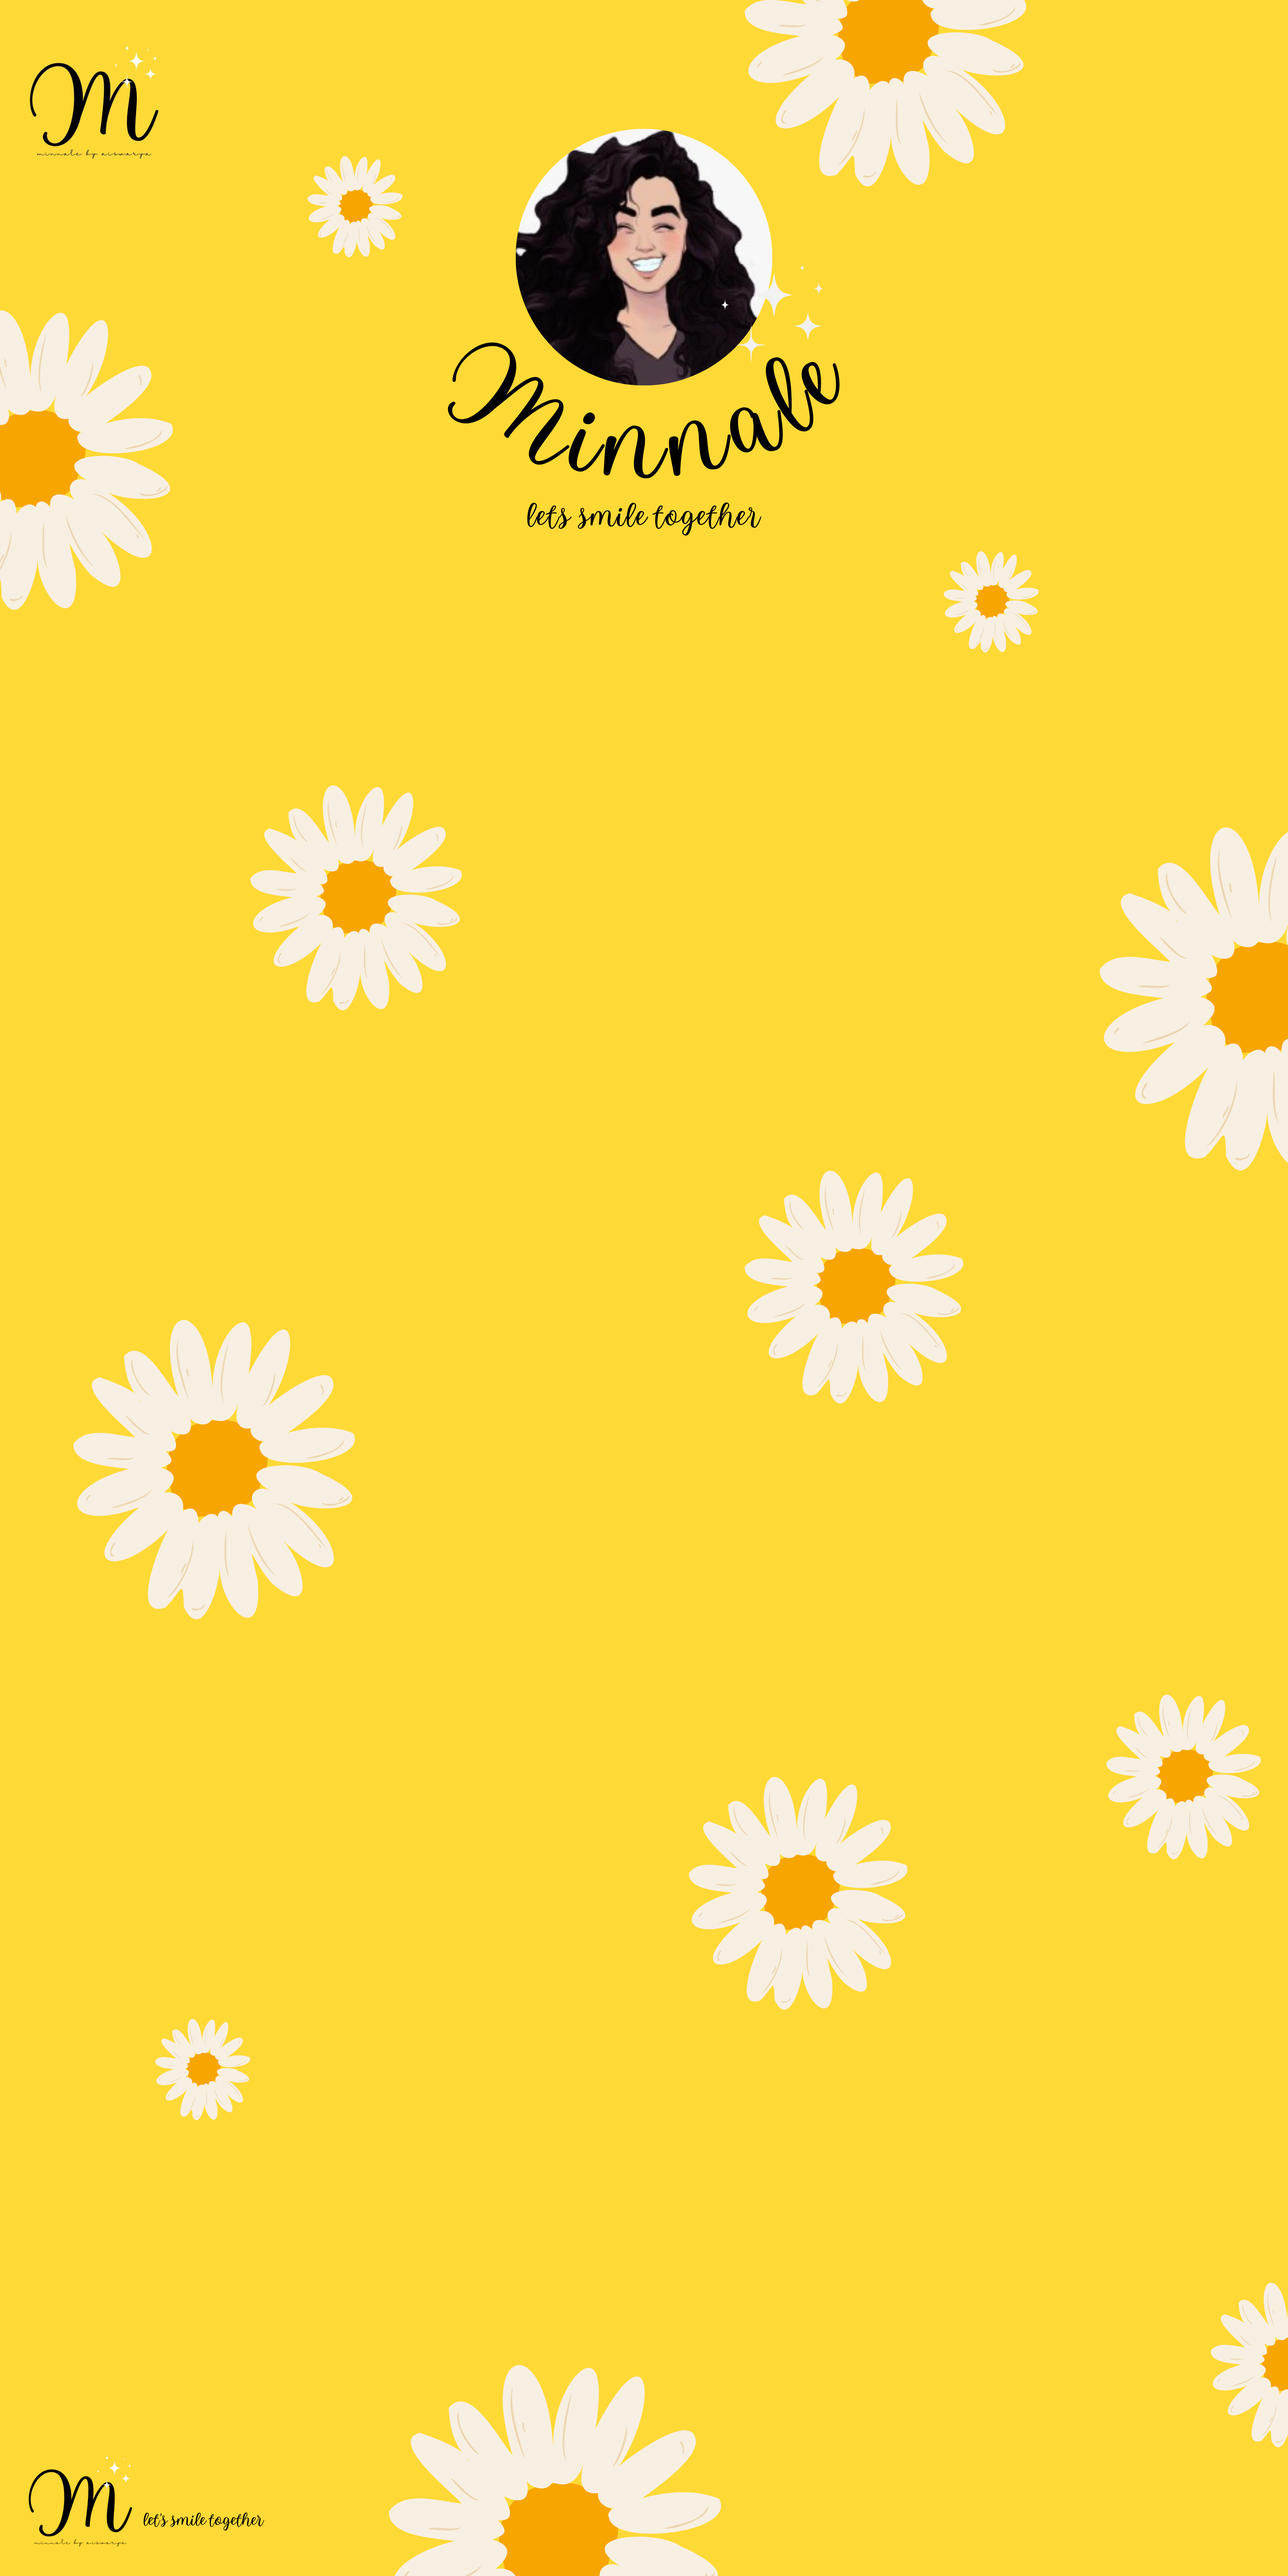
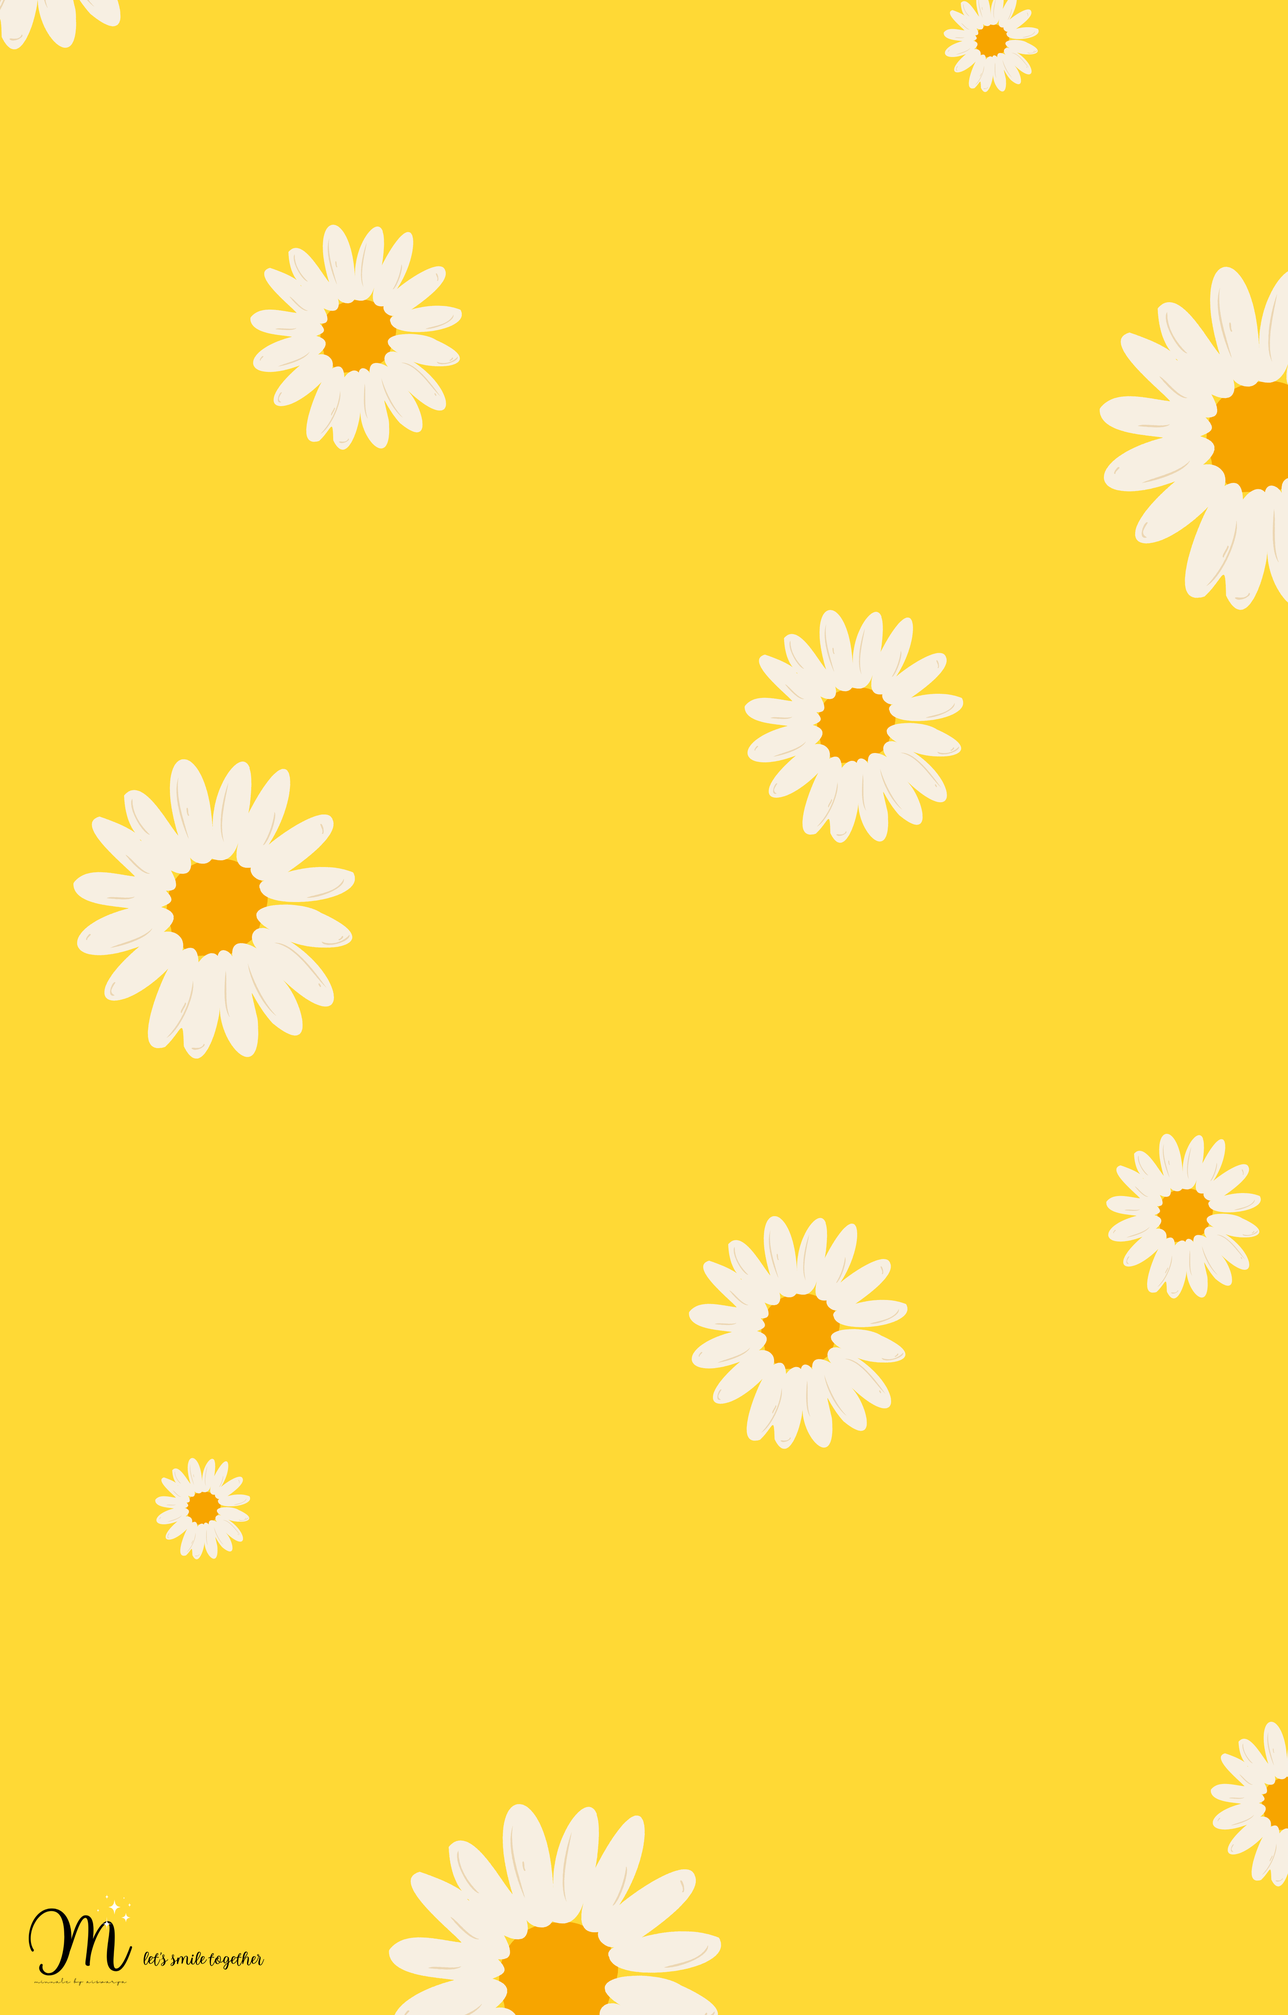
updates

diff --git a/src/Components/About/About.jsx b/src/Components/About/About.jsx
@@ -1,7 +1,7 @@
 import React from 'react'
 import './about.css'
 const About = () => {
-    const content = "Lorem ipsum dolor sit amet consectetur adipisicing elit. Maxime mollitia, molestiae quas vel sint commodi repudiandae consequuntur voluptatum laborum numquam blanditiis harum quisquam eius sed odit fugiat iusto fuga praesentium optio, eaque rerum! Provident similique accusantium nemo autem. Veritatis obcaecati tenetur iure eius earum ut molestias architecto voluptate aliquam nihil, eveniet aliquid culpa officia aut! Impedit sit sunt quaerat, odit, tenetur error, harum nesciunt ipsum debitis quas aliquid. Reprehenderit, quia. Quo neque error repudiandae fuga? Ipsa laudantium molestias eos sapiente officiis modi at sunt excepturi expedita sint? Sed quibusdam recusandae alias error harum maxime adipisci amet laborum. Perspiciatis minima nesciunt dolorem! Officiis iure rerum voluptates a cumque velit quibusdam sed amet tempora."
+    const content = " Minnale is business of Handmade Paper Craft products.Handmade paper craft can be a successful business, especially if you are able to offer unique and high-quality products that meet the needs and preferences of your target market. Some potential business ideas in the handmade paper craft industry include: Selling handmade paper products: You can create and sell a wide range of handmade paper products, such as greeting cards, invitations, gift boxes, and scrapbooking supplies.Offering paper craft workshops: You can offer classes or workshops teaching people how to make various handmade paper craft projects.This could be a good option if you have expertise in a particular technique, such as origami or quilling.Providing custom paper craft services: You can offer custom paper craft services, such as creating personalized invitations or party decorations for events.To start a handmade paper craft business, you will need to develop a business plan and identify your target market.You should also consider the costs associated with starting and running a business, including materials and equipment, marketing and advertising expenses, and any necessary licenses or permits.It can also be helpful to establish an online presence, such as a website or social media accounts, to showcase your products and services and reach a wider audience.Networking with other businesses and participating in craft fairs and events can also be effective ways to promote your business and attract customers. "
     return (
         <div className='flex flex-col about-container pb-4' id='About'>
             <div className='about'>About Minnale</div>

diff --git a/src/Components/Navbar/Navbar.jsx b/src/Components/Navbar/Navbar.jsx
@@ -3,9 +3,11 @@ import './navbar.css'
 const Navbar = () => {
     const navbar = ["Home", "About", "Products"]
     const contacts = [{ "name": "Instagram", "link": "https://www.instagram.com/_minnale_/", "asset": "instagram.svg" },
+    { "name": "Facebook", "link": "https://www.facebook.com/MINNALEHANDMADES/", "asset": "facebook.svg" },
     { "name": "Youtube", "link": "https://www.youtube.com/channel/UCF9Ts2woU2Kpiw7kTeldbmQ", "asset": "youtube.svg" },
-    { "name": "Whatsapp", "link": "https://wa.me/917306495478", "asset": "call.svg" },
-    { "name": "Location", "link": "https://goo.gl/maps/ZAnoGA2ryRYRQk3w5", "asset": "location.svg" }]
+    { "name": "Whatsapp", "link": "https://wa.me/917902355748", "asset": "call.svg" },
+    { "name": "Location", "link": "https://goo.gl/maps/ZAnoGA2ryRYRQk3w5", "asset": "location.svg" }
+    ]
     return (
         <div className='nav'>
             <div className='navbar justify-between md:pl-8'>

diff --git a/src/Components/Home/Home.jsx b/src/Components/Home/Home.jsx
@@ -5,13 +5,8 @@ const Home = () => {
     return (
         <>
             <div className='home' id='Home'>
-                <div className='home-box m-5 opacity-0 mt-[65px] md:h-[100vh] h-20'>
-                    {/* <h1 className='name'>MINNALE</h1>
-                    <h2 className='slogan'>Let's smile together</h2>
-                    <div className='flex items-center'>
-                        <h2 className='description' >Handmade<br />Paper<br /> Craft</h2>
-                        <div><img src='assets/home/girl.png' alt='Girl' /></div>
-                    </div> */}
+                <div className='home-box '>
+                    < img className='rounded-xl' src='assets/home/main.png' alt='' />
                 </div>
                 <h2>Products</h2>
                 <div className="products">

diff --git a/src/Components/Products/Products.jsx b/src/Components/Products/Products.jsx
@@ -9,7 +9,7 @@ const Products = () => {
                 <>
                     <div className='product w-[95%] md:w-[60%]' id={product.id}>
                         <h3 className='heading3'>{product.name}</h3>
-                        <div className='hidden sm:flex'>
+                        <div className='hidden sm:flex justify-center'>
                             <p className='prod-content'>{product.content}</p>
                             {product.link && (<iframe width="300" src={"https://www.youtube.com/embed/" + product.link} title="YouTube video player" frameborder="0" allow="accelerometer; autoplay; clipboard-write; encrypted-media; gyroscope; picture-in-picture" allowfullscreen></iframe>)
                             }</div>

diff --git a/src/Components/Home/home.css b/src/Components/Home/home.css
@@ -1,5 +1,4 @@
 .home {
-    padding-top: 65px;
     background-image: url('../../../public/assets/home/design.png');
     background-size: cover;
     display: flex;
@@ -12,13 +11,13 @@
 .home-box {
     display: flex;
     flex-direction: column;
+    width: 50%;
     margin: 25px;
+    margin-top: 0;
     padding: 25px;
+    padding-top: 0;
     padding-bottom: 0;
     text-align: center;
-    background-color: #ffd503cb;
-    border-radius: 20px;
-    border: 0.25px solid rgba(0, 0, 0, 0.25);
 }
 
 .home-box .name {

diff --git a/src/App.js b/src/App.js
@@ -8,7 +8,7 @@ function App() {
   return (
     <div className="App text-3xl">
       <header className="App-header"><Navbar /></header>
-      <div className='body-part mt-[65px]'>
+      <div className='body-part'>
         <Home />
         <About />
         <Products />

diff --git a/src/Components/Products/product.css b/src/Components/Products/product.css
@@ -1,5 +1,4 @@
 .next-product-container {
-
     background-image: url(../../../public/assets/home/design.png);
     background-size: contain;
     background-position: center;

diff --git a/src/App.css b/src/App.css
@@ -10,5 +10,5 @@
 }
 
 .body-part {
-  margin-top: 61px;
+  margin-top: 60px;
 }
